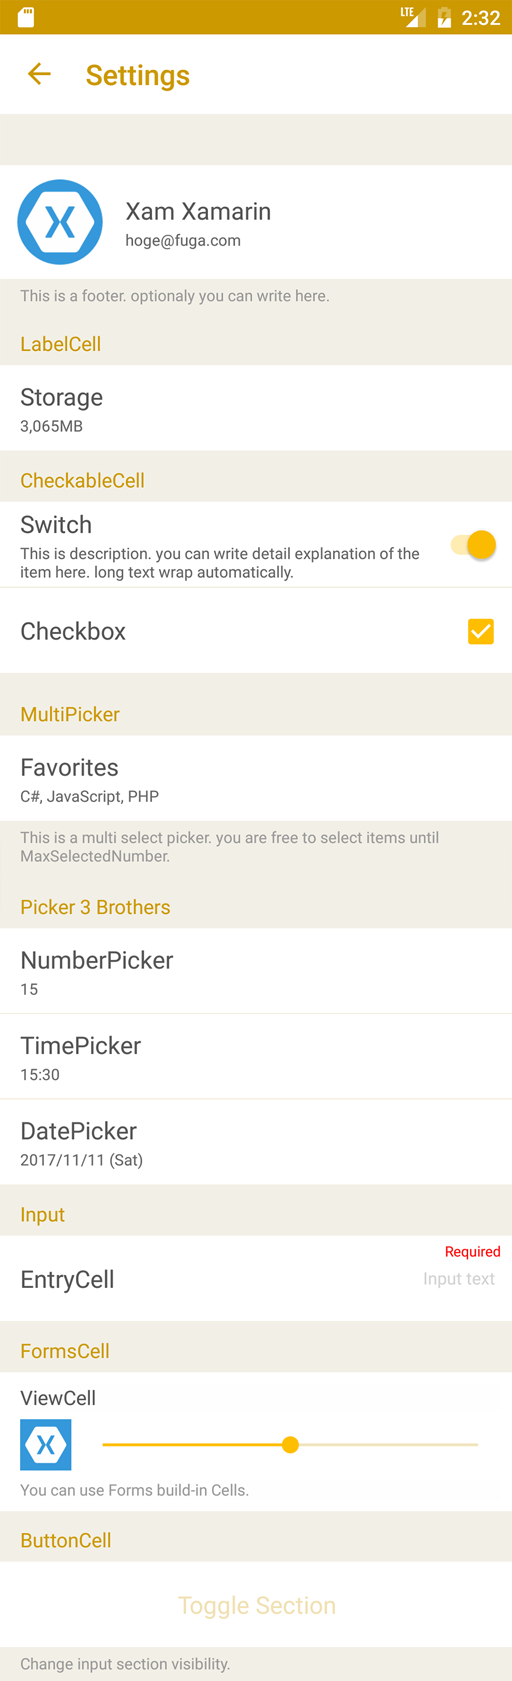
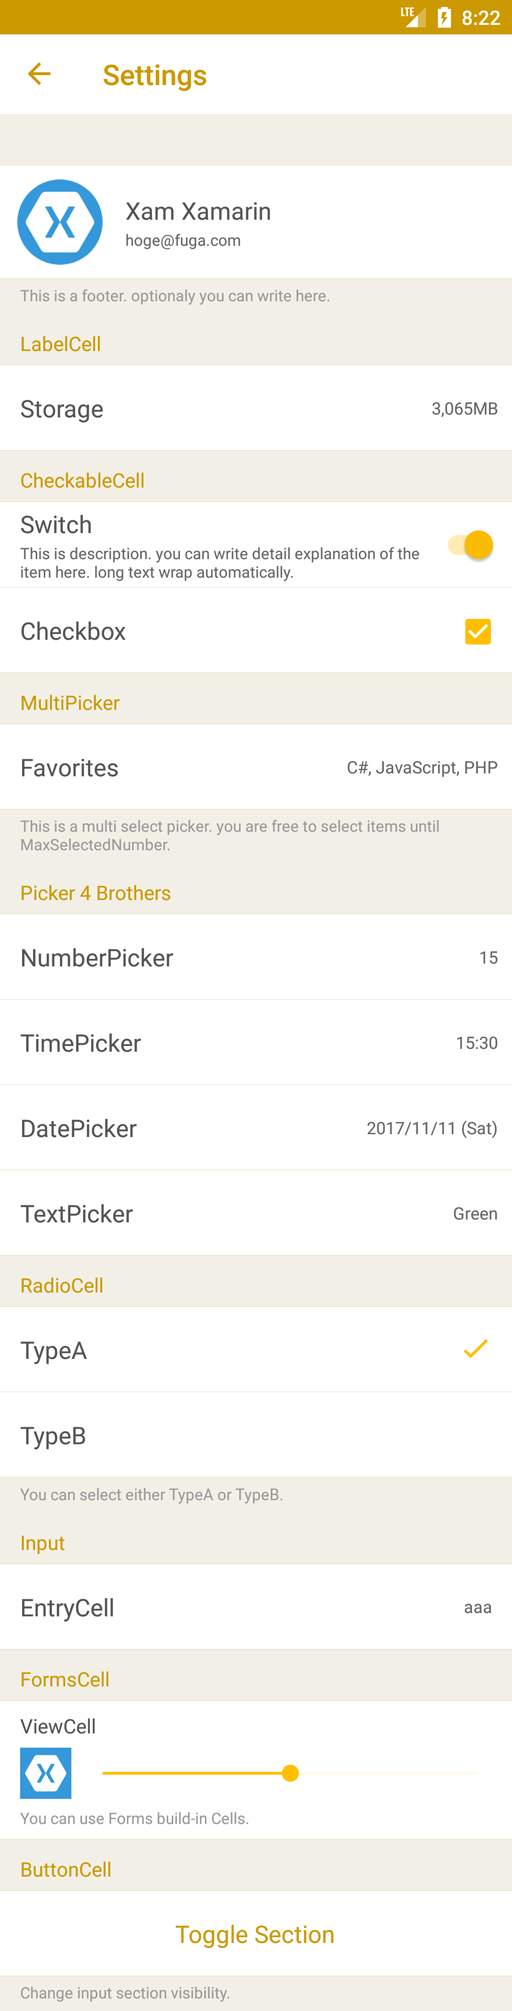
VisibleContentHeight is added

diff --git a/Sample/Sample/Views/PickerSurvey.xaml b/Sample/Sample/Views/PickerSurvey.xaml
@@ -55,19 +55,16 @@
         </ResourceDictionary>
     </ContentPage.Resources>
     <StackLayout Spacing="0">
-    <sv:SettingsView VerticalOptions="Start" HeightRequest="{Binding ComputedContentHeight,Source={x:Reference settings}}" BackgroundColor="Olive" HasUnevenRows="false"
-                     HeaderHeight="0" HeaderPadding="0,0,0,0" HeaderTextVerticalAlign="End" FooterPadding="0" x:Name="settings" FooterTextColor="White" FooterBackgroundColor="Navy"
-                     >
+    <sv:SettingsView VerticalOptions="Start" BackgroundColor="Olive" HeightRequest="{Binding VisibleContentHeight,Source={x:Reference settings}}" HasUnevenRows="false"
+                     x:Name="settings" CellBackgroundColor="White">
 
-        <sv:Section Title="Hoge" FooterText="Fuga" HeaderHeight="0">
-            <sv:ButtonCell Title="Button" BackgroundColor="White" />
-            <sv:ButtonCell Title="Button" BackgroundColor="White" />         
-           <!-- <sv:PickerCell Title="Select" ItemsSource="{Binding MasterItemsSource}" DisplayMember="Name" MaxSelectedNumber="1" 
-            SelectedItems="{Binding MasterItemsSourceSelectedItems}" SelectedCommand="{Binding SelectMasterCommand}"
-                           KeepSelectedUntilBack="true" PageTitle="Select" />-->
-        </sv:Section>
-        
+        <sv:Section Title="A" FooterText="Fuga">
+            <sv:ButtonCell Title="Button" />
+            <sv:ButtonCell Title="Button" />         
+            <sv:ButtonCell Title="Button" />
+         </sv:Section>
     </sv:SettingsView>
+    
     <ContentView VerticalOptions="FillAndExpand" BackgroundColor="Gray" />
     </StackLayout>
 

diff --git a/Sample/Sample/Views/SettingsViewPage.xaml b/Sample/Sample/Views/SettingsViewPage.xaml
@@ -3,6 +3,7 @@
 	xmlns="http://xamarin.com/schemas/2014/forms" 
 	xmlns:x="http://schemas.microsoft.com/winfx/2009/xaml" 
 	xmlns:sv="clr-namespace:AiForms.Renderers;assembly=SettingsView"
+    xmlns:ef="clr-namespace:AiForms.Effects;assembly=AiForms.Effects"
 	x:Class="Sample.Views.SettingsViewPage"
     Title="Settings">
 
@@ -104,7 +105,7 @@
                     <Label Text="ViewCell" TextColor="{StaticResource DeepTextColor}" />
                     <StackLayout Orientation="Horizontal">
                         <Image Source="icon.png" WidthRequest="36" HeightRequest="36" />
-                        <Slider Minimum="0" Maximum="999" Value="500" HorizontalOptions="FillAndExpand" />
+                        <Slider Minimum="0" Maximum="999" Value="500" HorizontalOptions="FillAndExpand" ef:AlterColor.Accent="{StaticResource AccentColor}" />
                     </StackLayout>
                     <Label Text="You can use Forms build-in Cells." FontSize="11" TextColor="{StaticResource PaleTextColor}" />
                  </StackLayout>

diff --git a/Sample/Sample/Views/RadioCellTest.xaml b/Sample/Sample/Views/RadioCellTest.xaml
@@ -76,7 +76,8 @@
                               IconSize="{Binding IconSize.Value}" 
                               IconRadius="{Binding IconRadius.Value}" 
                               AccentColor="{Binding OwnAccentColor.Value}"
-                              Value="{Binding RadioItems[0]}" />
+                              Value="{Binding RadioItems[0]}"
+                              Tapped="Handle_Tapped"/>
                 <ai:RadioCell Title="{Binding RadioItems[1].Name}"  
                               AccentColor="{Binding OwnAccentColor.Value}"
                               Value="{Binding RadioItems[1]}" />

diff --git a/SettingsView.Droid/SettingsViewRecyclerAdapter.cs b/SettingsView.Droid/SettingsViewRecyclerAdapter.cs
@@ -138,49 +138,6 @@ namespace AiForms.Renderers.Droid
             _settingsView.Model.RowSelected(CellCaches[position].Cell);
 
             cell.RowSelected(this,position);
-
-            //if (cell is CommandCellView){
-            //    var cmdCell = cell as CommandCellView;
-            //    cmdCell?.Execute?.Invoke();
-            //    if ((cmdCell.Cell as CommandCell).KeepSelectedUntilBack)
-            //    {
-            //        SelectedRow(cell, position);
-            //    }
-            //}
-            //else if (cell is ButtonCellView)
-            //{
-            //    var buttonCell = cell as ButtonCellView;
-            //    buttonCell?.Execute?.Invoke();
-            //}
-            //else if (cell is ICheckableCell)
-            //{
-            //    var checkCell = cell as ICheckableCell;
-            //    checkCell.CheckChange();
-            //}
-            //else if (cell is IPickerCell)
-            //{
-            //    var pCell = cell as IPickerCell;
-            //    pCell.ShowDialog();
-            //}
-            //else if (cell is PickerCellView)
-            //{
-            //    var pCell = cell as PickerCellView;
-            //    var formPickerCell = pCell.Cell as PickerCell;
-
-            //    if (formPickerCell.ItemsSource == null){
-            //        return;
-            //    }
-
-            //    if(formPickerCell.ItemsSource.Count == 0){
-            //        return;
-            //    }
-
-            //    if (formPickerCell.KeepSelectedUntilBack){
-            //        SelectedRow(cell, position);
-            //    }
-            //    pCell.ShowDialog();
-            //}
-
         }
 
         /// <summary>

diff --git a/SettingsView/SettingsView.DefineProperites.cs b/SettingsView/SettingsView.DefineProperites.cs
@@ -660,9 +660,9 @@ namespace AiForms.Renderers
         /// <summary>
         /// The computed content height property.
         /// </summary>
-        public static BindableProperty ComputedContentHeightProperty =
+        public static BindableProperty VisibleContentHeightProperty =
             BindableProperty.Create(
-                nameof(ComputedContentHeight),
+                nameof(VisibleContentHeight),
                 typeof(double),
                 typeof(SettingsView),
                 -1d,
@@ -673,9 +673,9 @@ namespace AiForms.Renderers
         /// Gets or sets the height of the computed content.
         /// </summary>
         /// <value>The height of the computed content.</value>
-        public double ComputedContentHeight {
-            get { return (double)GetValue(ComputedContentHeightProperty); }
-            set { SetValue(ComputedContentHeightProperty, value); }
+        public double VisibleContentHeight {
+            get { return (double)GetValue(VisibleContentHeightProperty); }
+            set { SetValue(VisibleContentHeightProperty, value); }
         }
     }
 }

diff --git a/SettingsView.Droid/SettingsViewRenderer.cs b/SettingsView.Droid/SettingsViewRenderer.cs
@@ -86,15 +86,20 @@ namespace AiForms.Renderers.Droid
         {
             base.OnLayout(changed, left, top, right, bottom);
 
+            if (!changed) return;
+
             var startPos = _layoutManager.FindFirstCompletelyVisibleItemPosition();
             var endPos = _layoutManager.FindLastCompletelyVisibleItemPosition();
 
             int totalH = 0;
-            for (var i = startPos; i <= endPos;i++)
-            {
+            for (var i = startPos; i <= endPos; i++) {
+                var child = _layoutManager.GetChildAt(i);
+
+                if (child == null) return;
+
                 totalH += _layoutManager.GetChildAt(i).Height;
             }
-            Element.ComputedContentHeight = Context.FromPixels(Math.Min(totalH, Control.Height));
+            Element.VisibleContentHeight = Context.FromPixels(Math.Min(totalH, Control.Height));
         }
 
         /// <summary>

diff --git a/SettingsView.Droid/Cells/EntryCellRenderer.cs b/SettingsView.Droid/Cells/EntryCellRenderer.cs
@@ -12,6 +12,8 @@ using Xamarin.Forms;
 using Xamarin.Forms.Platform.Android;
 using AiEntryCell = AiForms.Renderers.EntryCell;
 using Android.Text.Method;
+using Android.Graphics;
+using Android.Runtime;
 
 [assembly: ExportRenderer(typeof(AiEntryCell), typeof(AiForms.Renderers.Droid.EntryCellRenderer))]
 namespace AiForms.Renderers.Droid
@@ -324,6 +326,8 @@ namespace AiForms.Renderers.Droid
     internal class AiEditText : EditText
     {
         public Action ClearFocusAction { get; set; }
+        SoftInput _startingMode;
+
         public AiEditText(Context context) : base(context)
         {
         }

diff --git a/SettingsView.iOS/SettingsViewRenderer.cs b/SettingsView.iOS/SettingsViewRenderer.cs
@@ -117,7 +117,7 @@ namespace AiForms.Renderers.iOS
         public override void LayoutSubviews()
         {
             base.LayoutSubviews();
-            Element.ComputedContentHeight = Math.Min(Control.ContentSize.Height, Control.Frame.Height);
+            Element.VisibleContentHeight = Math.Min(Control.ContentSize.Height, Control.Frame.Height);
         }
 
         /// <summary>

diff --git a/Sample/Sample/Views/RadioCellTest.xaml.cs b/Sample/Sample/Views/RadioCellTest.xaml.cs
@@ -11,5 +11,10 @@ namespace Sample.Views
         {
             InitializeComponent();
         }
+
+        void Handle_Tapped(object sender, System.EventArgs e)
+        {
+            DisplayAlert("", "Tapped", "OK");
+        }
     }
 }

diff --git a/README-ja.md b/README-ja.md
@@ -60,11 +60,9 @@ iOSで使用する場合はAppDelegate.csに以下のようなコードを書く
 ```csharp
 public override bool FinishedLaunching(UIApplication app, NSDictionary options) {
     global::Xamarin.Forms.Forms.Init();
-
     AiForms.Renderers.iOS.SettingsViewInit.Init(); //ここに書く
 
-    LoadApplication(new App(new iOSInitializer()));
-
+    LoadApplication(new App());
     return base.FinishedLaunching(app, options);
 }
 ```
@@ -205,6 +203,17 @@ SettingsViewのプロパティ設定はApp.xamlに記述した方が良いかも
 * ScrollToBottom
 	* このプロパティにtrueをセットすると先頭または末尾までスクロールします。
 	* スクロール完了後は自動でfalseがセットされます。
+* VisibleContentHeight
+    * 表示されているコンテンツの高さです。この値を使って SettingsView 自体の高さを表示されているセルの合計の高さに合わせることができます。
+
+### SettingsView の高さを内容の高さに合わせるには
+
+SettingsView の内容のセルの合計の高さが、親のViewよりも低い場合は、次のように HeightRequest と VisibleContentHeight を使って、自身の高さを内容の高さに合わせることができます。
+
+```xml
+<sv:SettingsView x:Name="settings" HeightRequest="{Binding VisibleContentHeight,Source={x:Reference settings}}">
+</sv:SettingsView>
+```
 
 ## SettingsViewのメソッド
 

diff --git a/README.md b/README.md
@@ -61,11 +61,9 @@ To use by iOS, you need to write some code in AppDelegate.cs.
 ```csharp
 public override bool FinishedLaunching(UIApplication app, NSDictionary options) {
     global::Xamarin.Forms.Forms.Init();
-
     AiForms.Renderers.iOS.SettingsViewInit.Init(); //need to write here
 
-    LoadApplication(new App(new iOSInitializer()));
-
+    LoadApplication(new App());
     return base.FinishedLaunching(app, options);
 }
 ```
@@ -204,6 +202,17 @@ Whereby any SettingsView in App will become the same property setttings.
 * ScrollToBottom
 	* When this property is set to true, the screen will be scrolled to first item position or last item position.
 	* If scrolling has complete, it will be set to false automatically.
+* VisibleContentHeight
+    * The height of the visible content. This value allows SettingsView itself height to fit total cells height.
+
+### To fit SettingsView height to visible content
+
+If SettingsView's total cells height is shorter than the parent view height, itself height can be fit total cells height as the following:
+
+```xml
+<sv:SettingsView x:Name="settings" HeightRequest="{Binding VisibleContentHeight,Source={x:Reference settings}}">
+</sv:SettingsView>
+```
 
 ## SettingsView Methods
 
